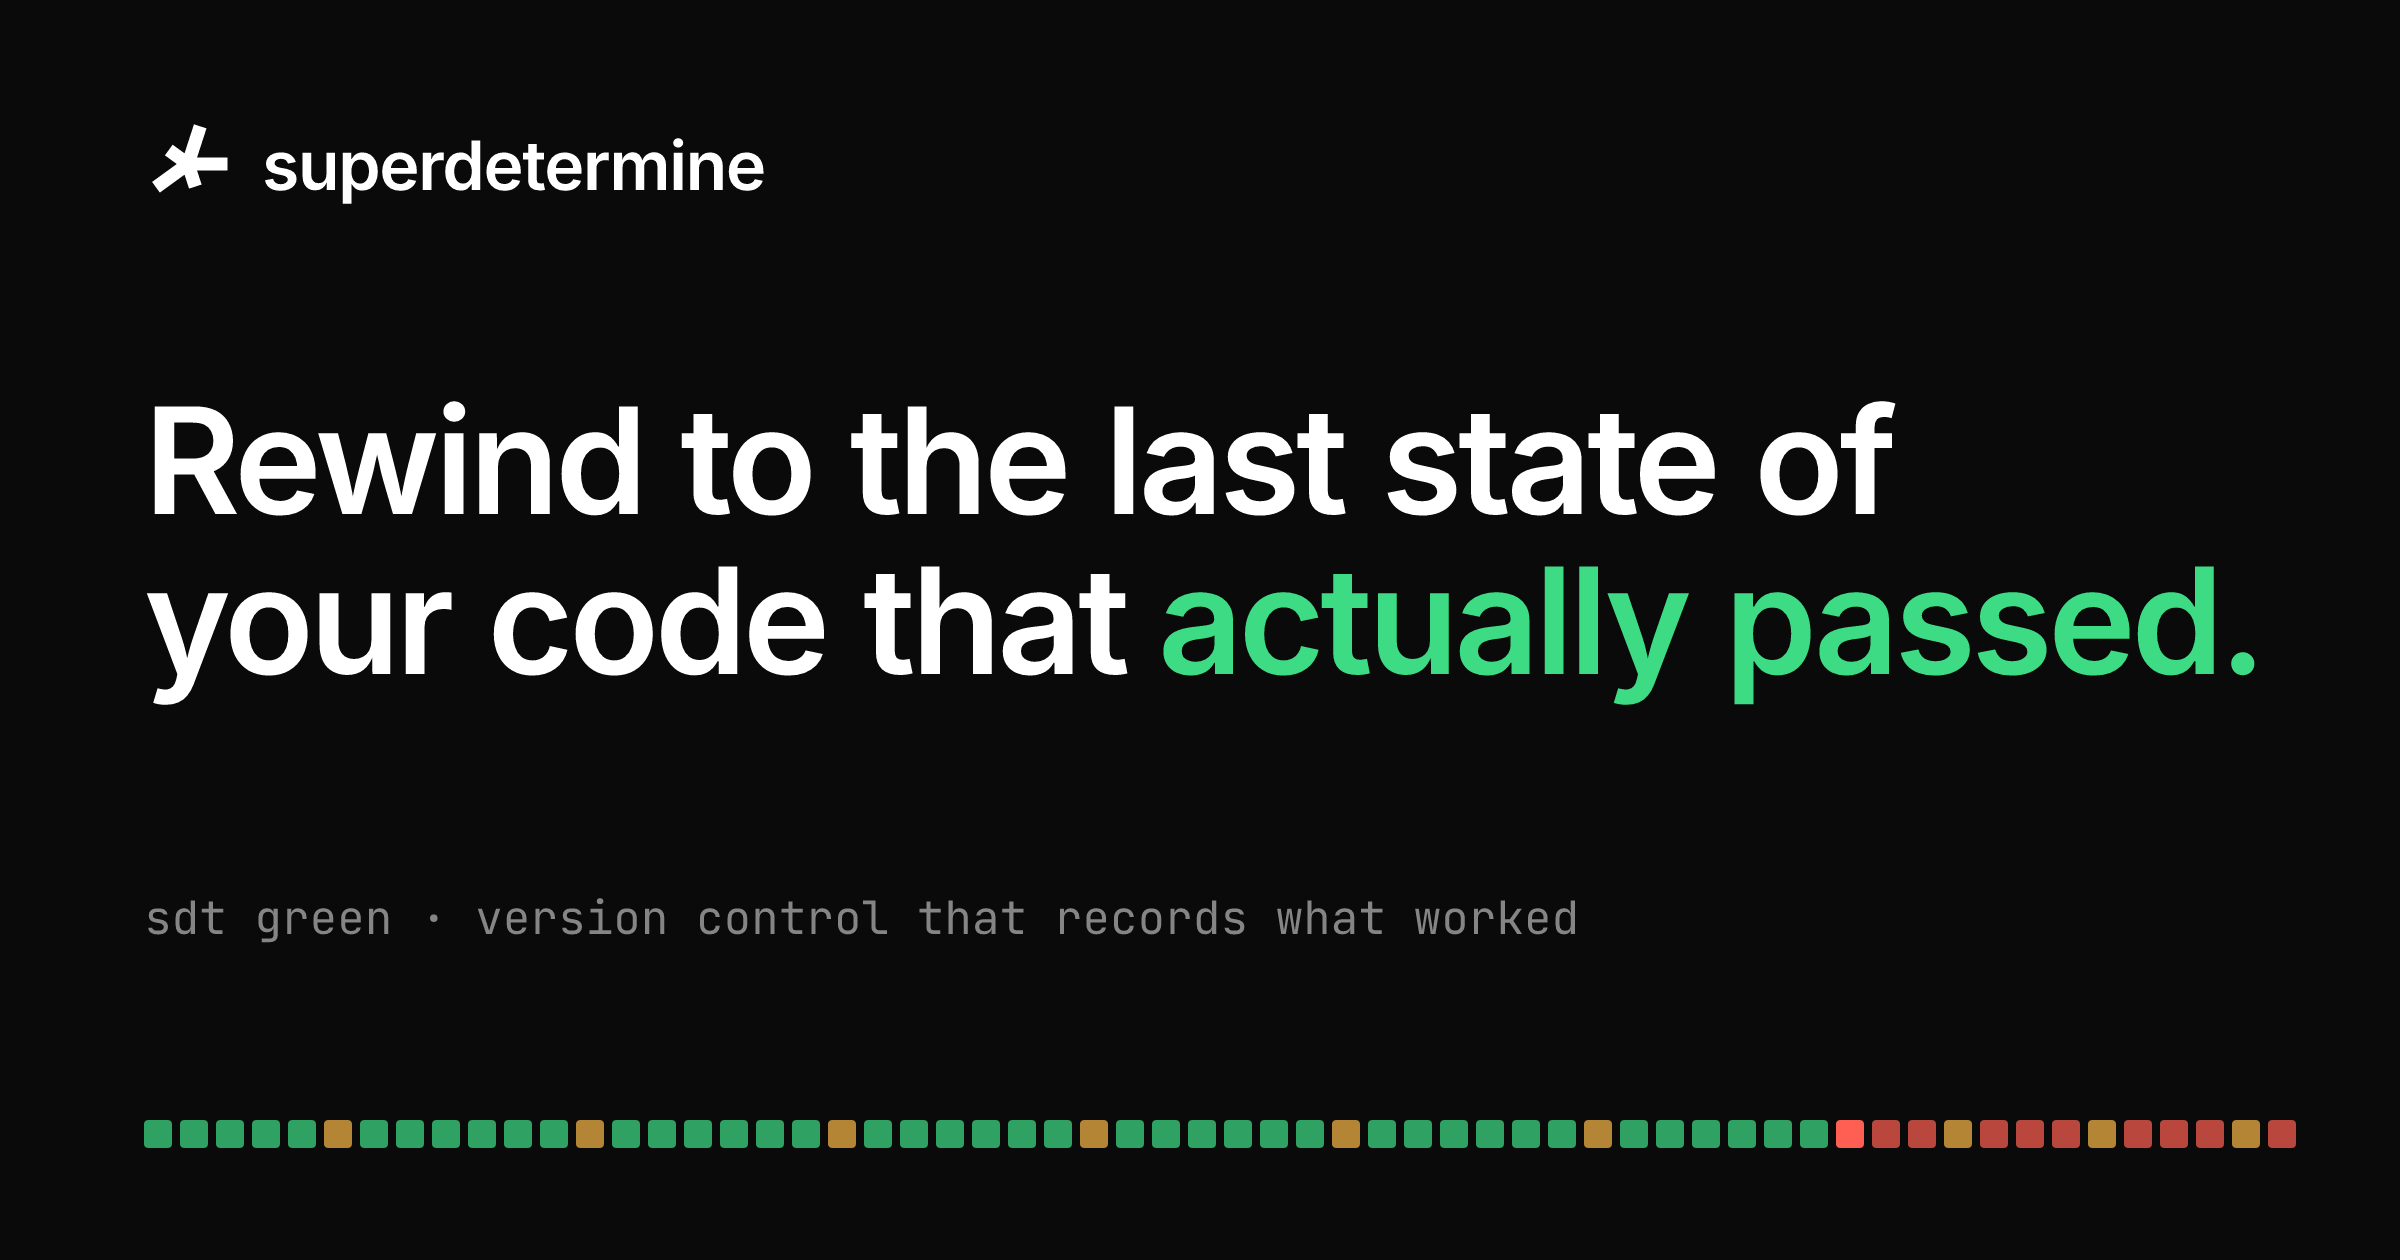
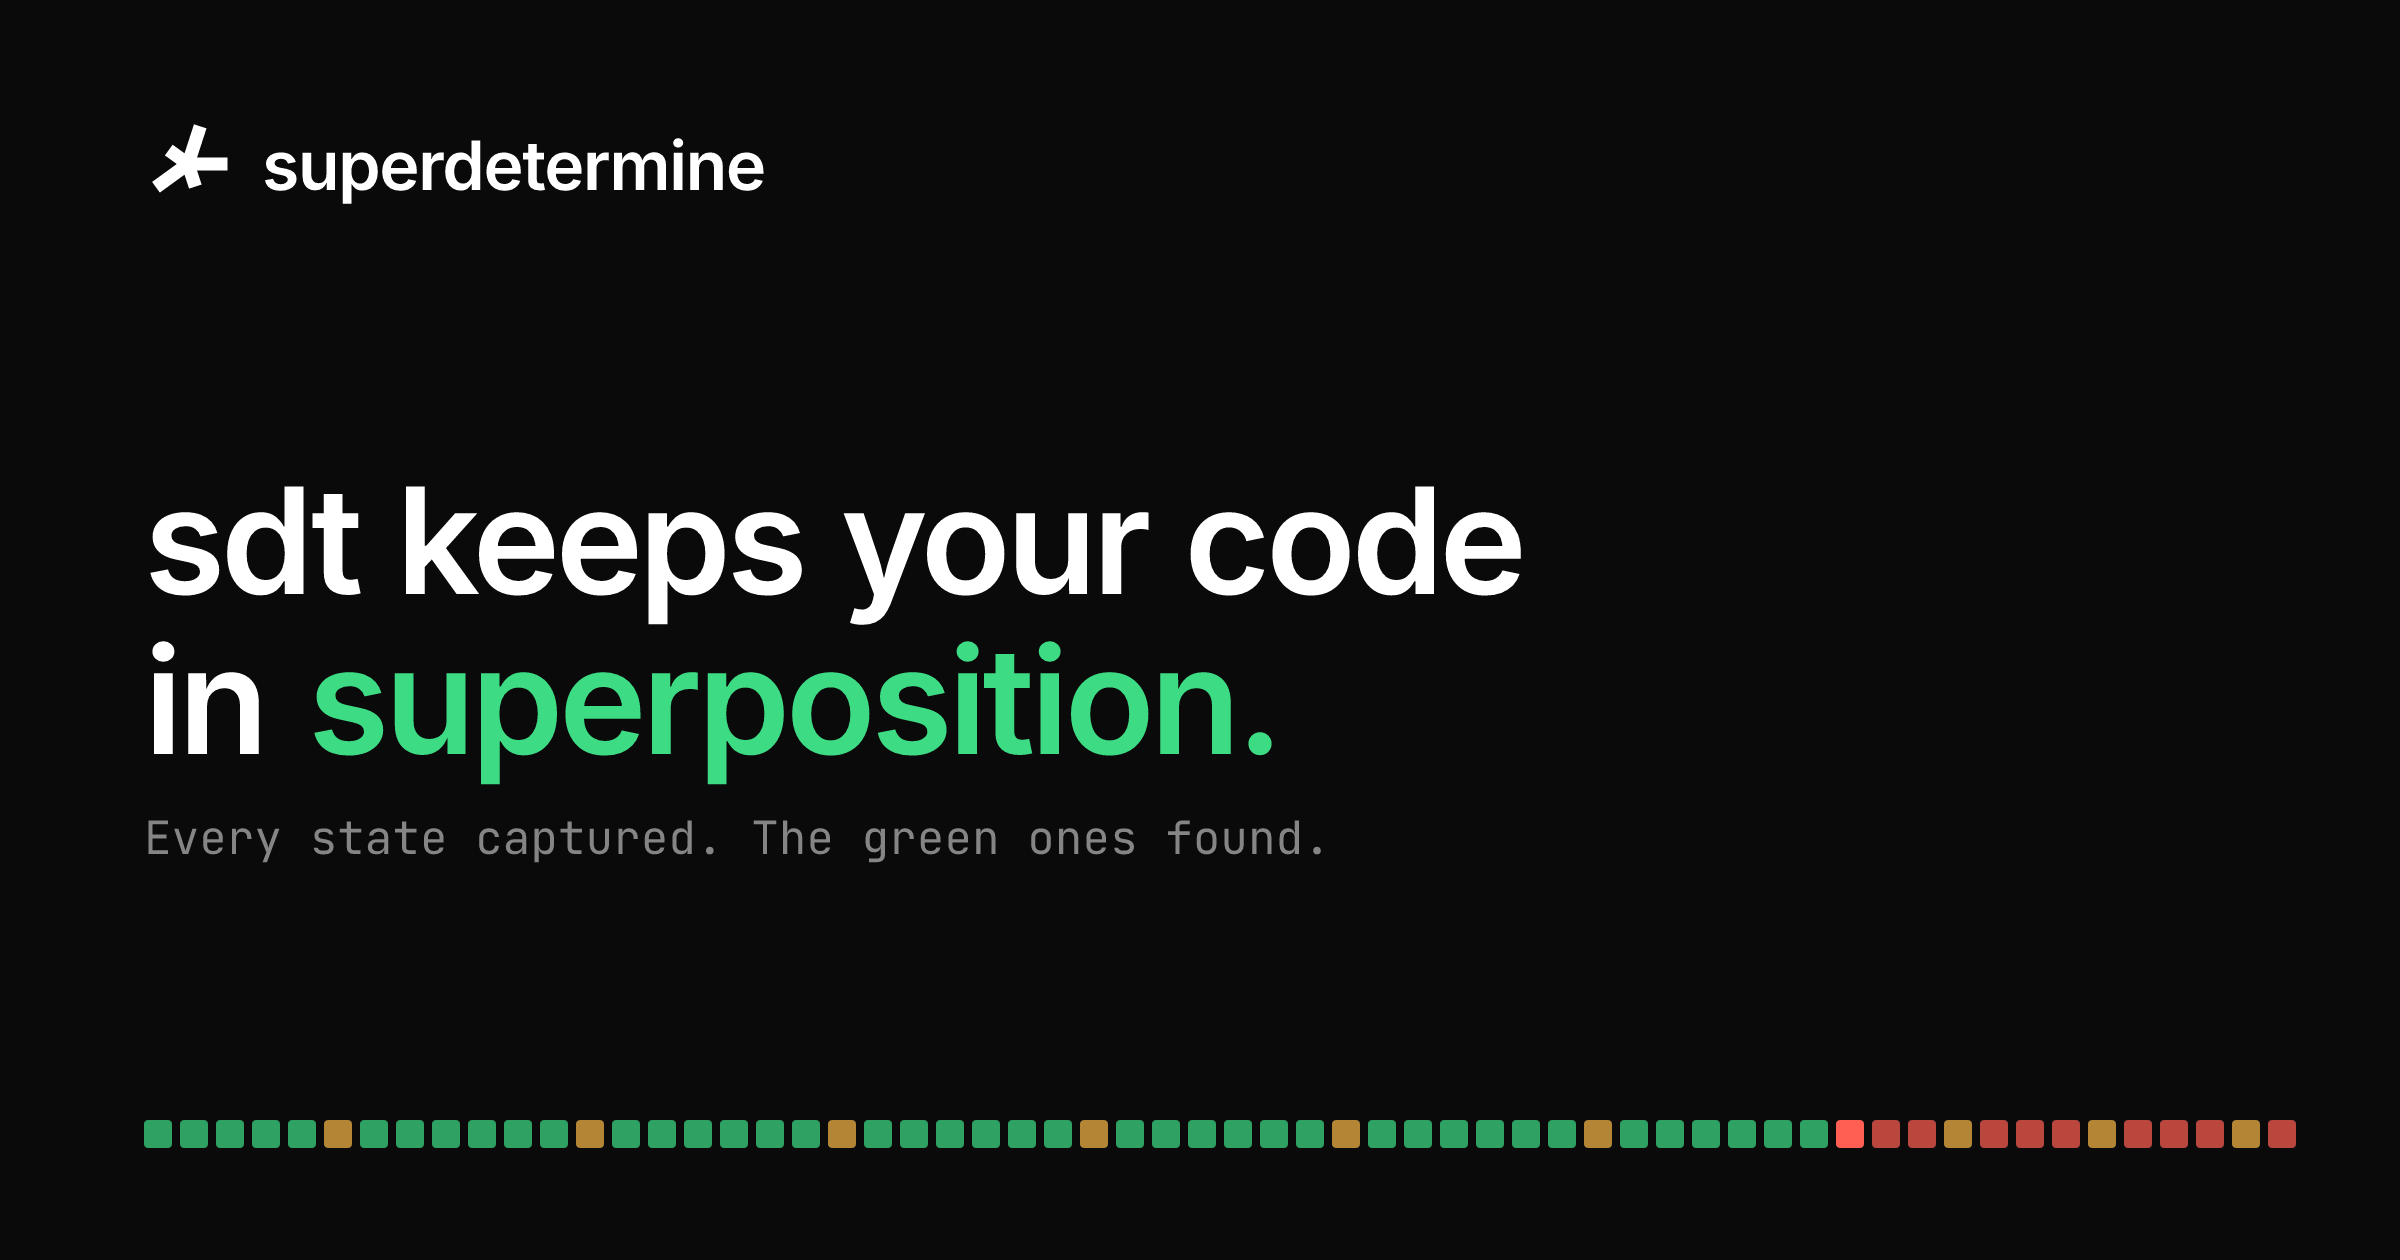
docs: sync site tagline and social preview

diff --git a/scripts/generate-og.tsx b/scripts/generate-og.tsx
@@ -98,15 +98,15 @@ const svg = await satori(
           lineHeight: 1.08,
         }}
       >
-        <span>Rewind to the last state of</span>
+        <span>sdt keeps your code</span>
         <span style={{ display: "flex" }}>
           {/* satori lays sibling spans out with no gap, so the word space has to be a margin. */}
-          <span style={{ marginRight: "0.26em" }}>your code that</span>
-          <span style={{ color: GREEN }}>actually passed.</span>
+          <span style={{ marginRight: "0.26em" }}>in</span>
+          <span style={{ color: GREEN }}>superposition.</span>
         </span>
       </div>
       <span style={{ fontFamily: "JetBrains Mono", fontSize: "23px", color: MUTED }}>
-        sdt green · version control that records what worked
+        Every state captured. The green ones found.
       </span>
     </div>
 

diff --git a/README.md b/README.md
@@ -1,7 +1,8 @@
 # superdetermine.com
 
-The marketing site for [`sdt`](https://github.com/plyght/superdetermine), a version
-control system that records which states of your code actually worked.
+sdt keeps your code in superposition.
+
+The marketing site for [`sdt`](https://github.com/plyght/superdetermine).
 
 Astro, Tailwind v4, static output.
 
